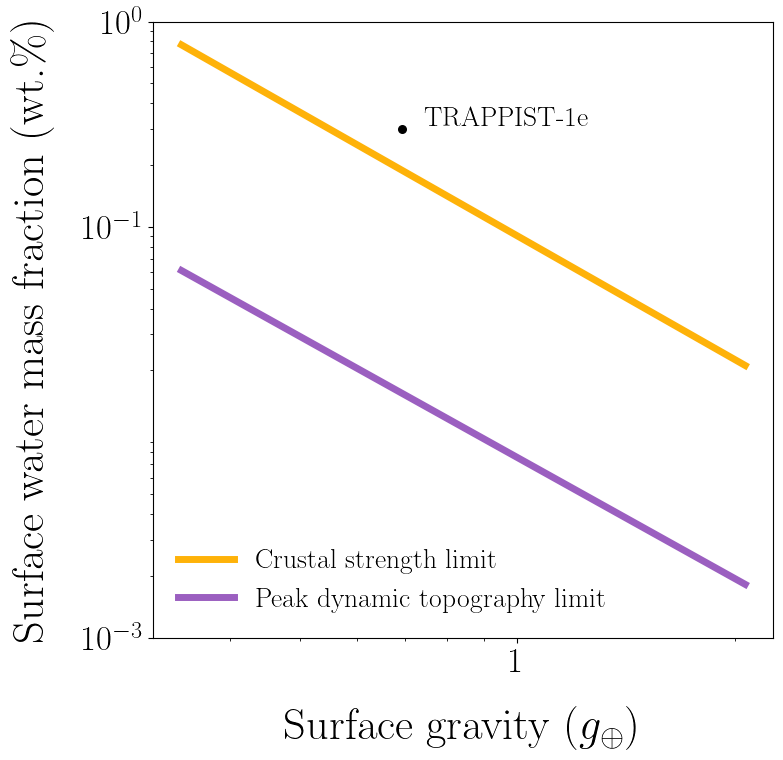
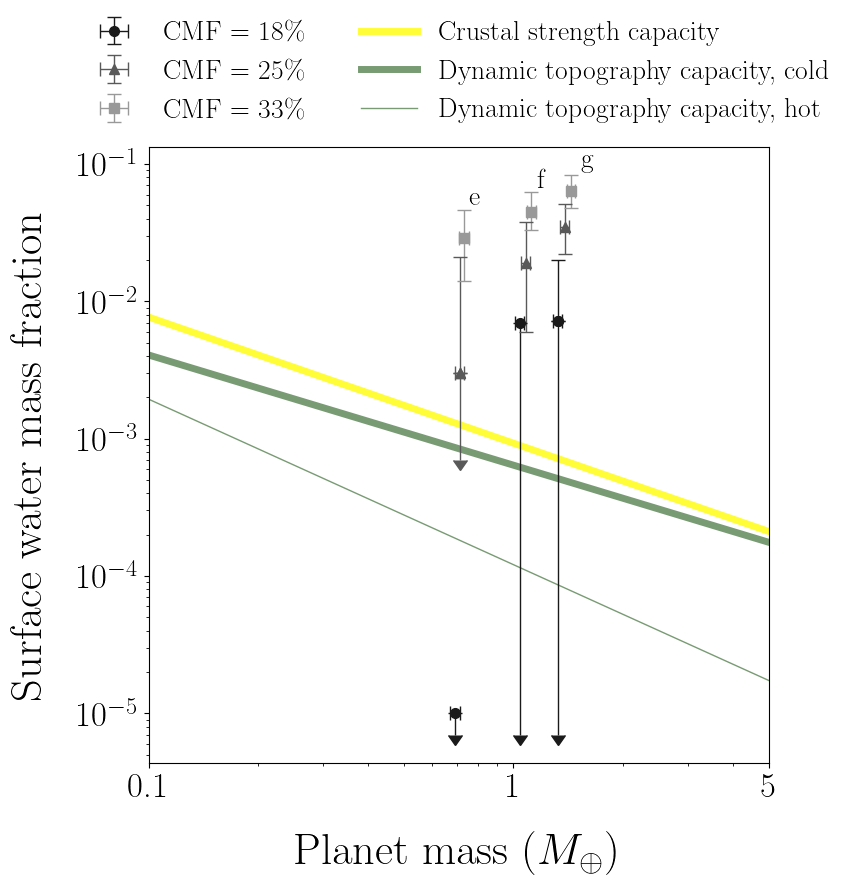
k

diff --git a/exotop/figs_ms/waterworld_theoretical.py b/exotop/figs_ms/waterworld_theoretical.py
@@ -15,37 +15,122 @@ rho_c = 2700
 rho_w = 1000
 M_E = 5.972e24  # earth mass in kg
 R_E = 6371e3
-g_E = 9.807   # earth grav
+g_E = 9.807  # earth grav
 Y = 100e6
+
+labelsize = 32
+ticksize = 25
+legsize = 20
+lw = 5
+fig, ax = plt.subplots(1, 1, figsize=(8, 8))
+
+w_Tre = [1e-5, 0.3e-2, 2.9e-2]  # CMF 18, 25, 33%
+e_Tre = [3e-6, [[0], [1.8e-2]], [[1.5e-2], [1.7e-2]]]  # wmf error
+M_Tre = 0.692
+
+w_Trf = [0.7e-2, 1.9e-2, 4.5e-2]
+e_Trf = [w_Trf[0] - 1e-5 + 3e-6, [[1.3e-2], [1.9e-2]], [[1.2e-2], [1.8e-2]]]
+M_Trf = 1.039
+
+w_Trg = [0.72e-2, 3.5e-2, 6.4e-2]
+e_Trg = [[[0], [1.3e-2]], [[1.3e-2], [1.6e-2]], [[1.6e-2], [2e-2]]]
+M_Trg = 1.321
+
+err_c = ['0.1', '0.35', '0.6']
+err_m = ['o', '^', 's']
+err_kwargs = {'elinewidth': 1, 'capsize': 5, 'ms': 7, 'lw': 0}
+labels = ['CMF = 18\%', 'CMF = 25\%', 'CMF = 33\%']
+annosize = legsize  # - 5
+limkwargs = err_kwargs.copy()
+limkwargs.update({'marker': '_'})
+off = [0, 0.02, 0.04]  # offset
+
+for i_cmf in range(3):
+    c = err_c[i_cmf]
+    anno_c = 'k'
+    err_kwargs.update({'mec': c, 'mfc': c, 'ecolor': c, 'marker': err_m[i_cmf]})
+    limkwargs.update({'mec': c, 'mfc': c, 'ecolor': c, 'marker': err_m[i_cmf]})
+
+    # TRAPPIST-1e
+    if i_cmf == 0:
+        uplims = True
+    else:
+        uplims = False
+    ax.errorbar(M_Tre + off[i_cmf], w_Tre[i_cmf], yerr=e_Tre[i_cmf], xerr=0.022, uplims=uplims, **err_kwargs)
+    if i_cmf == 1:
+        ax.errorbar(M_Tre + off[i_cmf], w_Tre[i_cmf], yerr=w_Tre[i_cmf] - 1e-3 + 3e-4, uplims=True,
+                    **err_kwargs)  # 25% CMF
+    if i_cmf == 2:
+        ax.annotate('e', (M_Tre + off[i_cmf] + 0.05, w_Tre[i_cmf] + e_Tre[i_cmf][0][-1] + 0.002), fontsize=annosize,
+                    color=anno_c, ha='center', va='bottom')
+
+    # TRAPPIST-1f
+    off[i_cmf] = off[i_cmf] * 2
+    if i_cmf == 0:
+        kw = limkwargs
+        uplims = True
+    else:
+        kw = err_kwargs
+        uplims = False
+    ax.errorbar(M_Trf + off[i_cmf], w_Trf[i_cmf], yerr=e_Trf[i_cmf], xerr=0.031, uplims=uplims, **kw)
+    if i_cmf == 2:
+        ax.annotate('f', (M_Trf + off[i_cmf] + 0.07, w_Trf[i_cmf] + e_Trf[i_cmf][0][-1] + 0.005), fontsize=annosize,
+                    color=anno_c, ha='center', va='bottom')
+
+    # TRAPPIST-1g
+    off[i_cmf] = off[i_cmf] * 1.5
+    ax.errorbar(M_Trg + off[i_cmf], w_Trg[i_cmf], yerr=e_Trg[i_cmf], xerr=0.038, label=labels[i_cmf], **err_kwargs)
+    if i_cmf == 0:
+        ax.errorbar(M_Trg + off[i_cmf], w_Trg[i_cmf], yerr=w_Trg[i_cmf] - 1e-5 + 3e-6, uplims=True, **err_kwargs)
+    if i_cmf == 2:
+        ax.annotate('g', (M_Trg + off[i_cmf] + 0.15, w_Trg[i_cmf] + e_Trf[i_cmf][0][-1] + 0.01), fontsize=annosize,
+                    color=anno_c, ha='center', va='bottom')
+
 
 def radius_zeng(M_p, CMF=0.3):
     # input mass in kg, output radius in m
     # applicable to M_E <= 8 and CMF <= 0.4
-#     print('using Zeng radius model')
-    return (1.07 - 0.21*CMF)*(M_p/M_E)**(1/3.7) * R_E
+    #     print('using Zeng radius model')
+    return (1.07 - 0.21 * CMF) * (M_p / M_E) ** (1 / 3.7) * R_E
+
 
 def grav(M, R):
     """Calculate acceleration due to gravity on a point mass in m s^-2"""
-    return 6.674e-11*M/R**2
+    return 6.674e-11 * M / R ** 2
+
 
 def vol(R):
-    return 4/3*np.pi*R**3
+    return 4 / 3 * np.pi * R ** 3
+
 
 def h_peak_rock(M=None, R=None, Y=100e6, rho_c=2700, **kwargs):
     g = grav(M, R)
-    return (2*Y)/(rho_c*g)
+    return (2 * Y) / (rho_c * g)
+
 
 def h_peak_dt(M=None, peak_scale=3.5, **kwargs):  # M in kg
-    h_rms = (M/M_E)**-0.44 * 10**2.26
-    return h_rms*peak_scale
+    h_rms = (M / M_E) ** -0.44 * 10 ** 2.26
+    return h_rms * peak_scale
+
+
+def h_peak_dt_cold(M=None, peak_scale=3.5, **kwargs):  # M in kg
+    h_rms = (M / M_E) ** -0.3434899 * (10 ** 3.1794847)
+    return h_rms * peak_scale
+
+
+def h_peak_dt_hot(M=None, peak_scale=3.5, **kwargs):  # M in kg
+    h_rms = (M / M_E) ** -0.74629234 * (10 ** 2.45476118)
+    return h_rms * peak_scale
+
 
 def wmf_max(M_p, R_p, rho_m=3500, rho_w=1000, h_peak_fn=None, **kwargs):
     # M_p R_p in SI units
     V_p = vol(R_p)
     h = h_peak_fn(M=M_p, R=R_p, **kwargs)  # in m
     # m_cap = rho_w * (V_p - 4/3*np.pi*(R_p - h)**3)
-    m_cap = rho_w*rho_m/(rho_m - rho_w) * 4 * np.pi * R_p**2 * h  # accounts for water loading
+    m_cap = rho_w * rho_m / (rho_m - rho_w) * 4 * np.pi * R_p ** 2 * h  # accounts for water loading
     return m_cap / M_p  # as mass fraction
+
 
 # give an M, what is the max water content that would make it a waterworld?
 
@@ -53,59 +138,63 @@ def wmf_max(M_p, R_p, rho_m=3500, rho_w=1000, h_peak_fn=None, **kwargs):
 masses = np.linspace(0.1, 5, num=10)
 gravs = np.ones_like(masses)
 wmfs_rock = np.ones_like(masses)
-wmfs_dt = np.ones_like(masses)
+wmfs_dt_cold = np.ones_like(masses)
+wmfs_dt_hot = np.ones_like(masses)
 for ii, m in enumerate(masses):
-    M_p = m*M_E
+    M_p = m * M_E
     R_p = radius_zeng(M_p)  # in km
     gravs[ii] = grav(M_p, R_p) / g_E
 
-    wmf_rock = wmf_max(M_p, R_p, h_peak_fn=h_peak_rock) * 1e2
+    wmf_rock = wmf_max(M_p, R_p, h_peak_fn=h_peak_rock)
     # print(M_p/M_E, 'M_E:', wmf_rock, 'wt %')
     wmfs_rock[ii] = wmf_rock
 
-    wmf_dt = wmf_max(M_p, R_p, h_peak_fn=h_peak_dt) * 1e2
+    wmf_dt_cold = wmf_max(M_p, R_p, h_peak_fn=h_peak_dt_cold)
     # print(M_p/M_E, 'M_E:', wmf_rock, 'wt %')
-    wmfs_dt[ii] = wmf_dt
+    wmfs_dt_cold[ii] = wmf_dt_cold
+
+    wmf_dt_hot = wmf_max(M_p, R_p, h_peak_fn=h_peak_dt_hot)
+    # print(M_p/M_E, 'M_E:', wmf_rock, 'wt %')
+    wmfs_dt_hot[ii] = wmf_dt_hot
 
 pr = np.polyfit(np.log10(masses), np.log10(wmfs_rock), deg=1)
 print('rock:', pr)
-pd = np.polyfit(np.log10(masses), np.log10(wmfs_dt), deg=1)
-print('dt:', pd)
+pd = np.polyfit(np.log10(masses), np.log10(wmfs_dt_cold), deg=1)
+print('dt cold:', pd)
+pd = np.polyfit(np.log10(masses), np.log10(wmfs_dt_hot), deg=1)
+print('dt hot:', pd)
+
 
 # print(wmfs)
 
 c = '#b13c02ff'
-labelsize = 32
-ticksize = 25
-legsize = 20
-lw = 5
-fig, ax = plt.subplots(1, 1, figsize=(8,8))
-plt.plot(gravs, wmfs_rock, c='xkcd:saffron', lw=lw, label='Crustal strength limit')
-plt.plot(gravs, wmfs_dt, c='xkcd:amethyst', lw=lw, label='Peak dynamic topography limit')
-plt.xlabel(r'Surface gravity ($g_{\oplus}$)', fontsize=labelsize, labelpad=20)
-plt.ylabel(r'Surface water mass fraction (wt.\%)', fontsize=labelsize, labelpad=20)
+plt.plot(masses, wmfs_rock, c='xkcd:sunshine yellow', lw=lw, label='Crustal strength capacity', zorder=0)
+plt.plot(masses, wmfs_dt_cold, c='xkcd:grey green', lw=lw, label='Dynamic topography capacity, cold', zorder=0)
+plt.plot(masses, wmfs_dt_hot, c='xkcd:grey green', lw=1, label='Dynamic topography capacity, hot', zorder=0)
+plt.xlabel(r'Planet mass ($M_{\oplus}$)', fontsize=labelsize, labelpad=20)
+plt.ylabel(r'Surface water mass fraction', fontsize=labelsize, labelpad=20)
 plt.loglog()
 
-yticks = [1e-3, 1e-1, 1e0]
-xticks = [0.3, 1, 2]
-ax.set_yticks(yticks)
-ax.set_ylim(yticks[0], yticks[-1])
-# ax.set_xticks(xticks)
-# ax.set_xlim(xticks[0], xticks[-1])
+# fig, ax = dark_background(fig, ax)
+
+handles, labels = ax.get_legend_handles_labels()
+# sort both labels and handles by labels
+labels, handles = zip(*sorted(zip(labels, handles), key=lambda t: t[0]))
+ax.legend(handles, labels, ncol=2, frameon=False, fontsize=legsize,
+          bbox_to_anchor=(0, 1.02, 1, 0.2), loc="lower center", borderaxespad=0)
+
+# yticks = [1e-4, 1e-1, 1, 10]
+xticks = [0.1, 1, 5]
+# ax.set_yticks(yticks)
+# ax.set_ylim(yticks[0], yticks[-1])
+ax.set_xticks(xticks)
+ax.set_xlim(xticks[0], xticks[-1])
 ax.xaxis.set_major_formatter(ticker.FormatStrFormatter('%g'))
 ax.xaxis.set_minor_formatter(ticker.NullFormatter())
 ax.tick_params(axis='x', labelsize=ticksize)
 ax.tick_params(axis='y', labelsize=ticksize)
-# fig, ax = dark_background(fig, ax)
-
-w_Tre = 0.3
-M_Tre = 0.692
-ax.scatter(M_Tre, w_Tre, s=30, marker='o', c='k')
-ax.annotate('TRAPPIST-1e', (M_Tre + 0.05, w_Tre + 0.01), fontsize=legsize)
-
-ax.legend(frameon=False, fontsize=legsize, loc='lower left')
 
 plt.savefig(fig_path + 'ww_lim.png', bbox_inches='tight',
             # transparent=True
             )
-plt.show()
+# plt.show()

diff --git a/exotop/figs_scratch/plot_ocn_vol.py b/exotop/figs_scratch/plot_ocn_vol.py
@@ -205,7 +205,7 @@ axes[-1] = cornertext(axes[-1], 'LAND\nPLANETS', pos='bottom right', size=labels
 #            ]
 handles = []
 for jj, rad in enumerate(rad_vals):
-    handles.append(mlines.Line2D([], [], color='k', ls=ls_rad[jj], lw=3, label=str(rad) + r'$\%$'))
+    handles.append(mlines.Line2D([], [], color='k', ls=ls_rad[jj], lw=3, label=str(rad*100) + r'$\%$'))
 axes[0].legend(handles=handles, bbox_to_anchor=(0, 1.05, 1, 0.2), loc="lower left", frameon=False, fontsize=legsize,
                title=r'\textbf{U, Th budget relative to solar}', title_fontsize=legsize, ncol=3)
 
